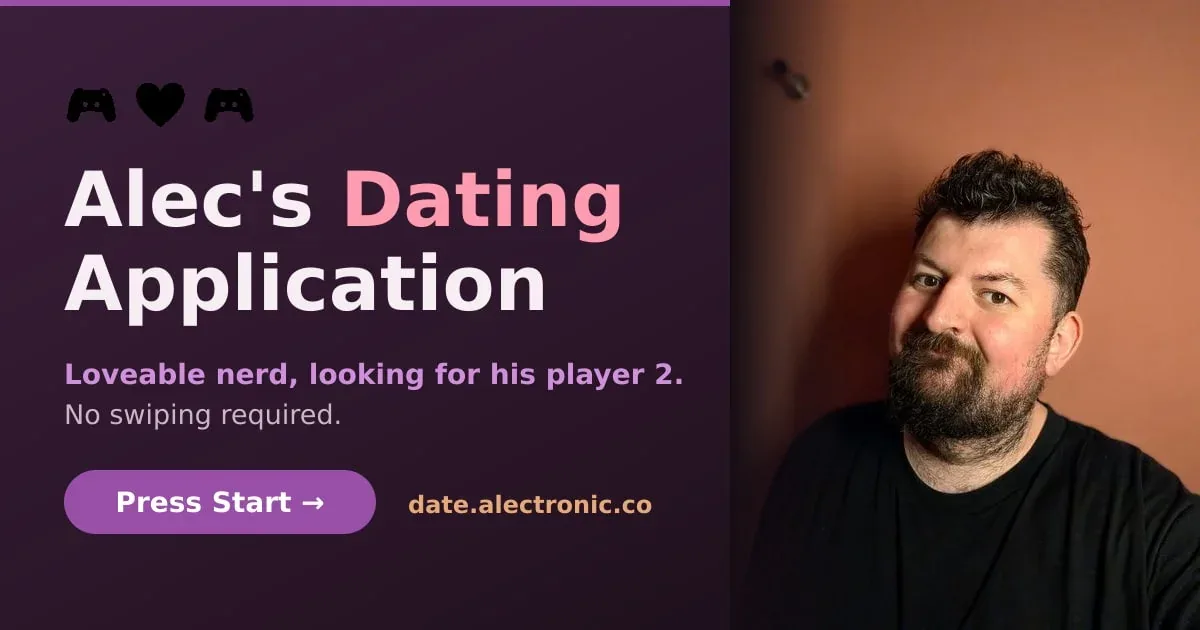
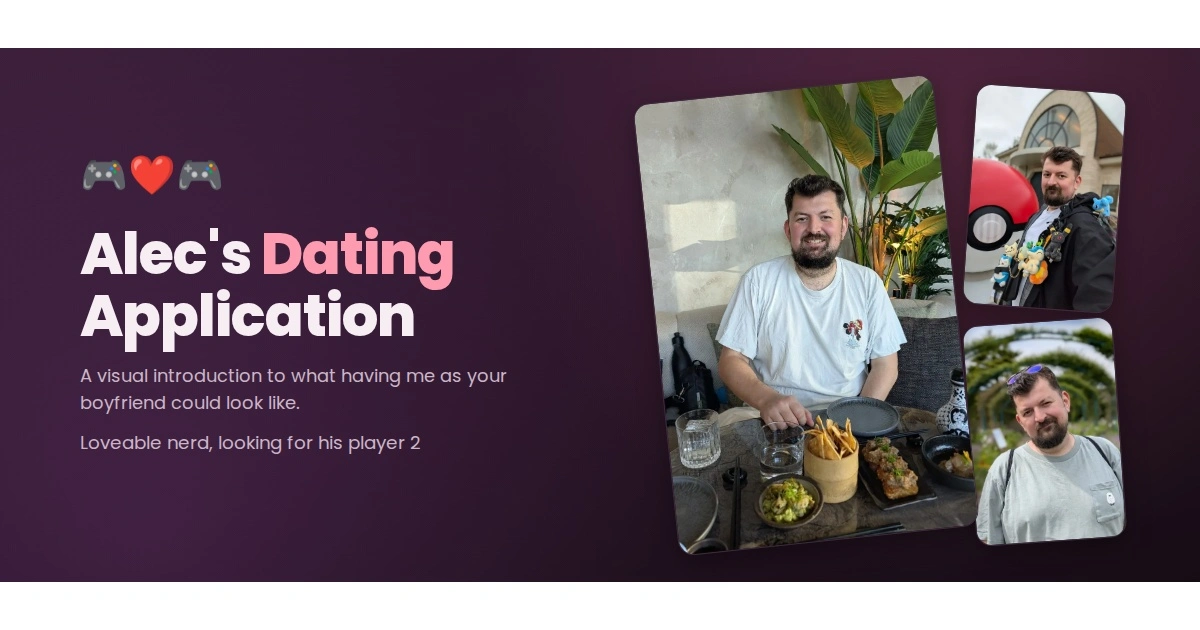
poster: adjust hero emoji font styling and tagline fallback

diff --git a/poster.html b/poster.html
@@ -94,6 +94,10 @@
     .hero-cta, .hero-scroll {
       display: none !important;
     }
+
+    .hero-emoji {
+      font-family: "Apple Color Emoji", "Segoe UI Emoji", "Noto Color Emoji", "Android Emoji", sans-serif;
+    }
   </style>
 </head>
 <body>
@@ -129,7 +133,7 @@
     document.getElementById('hero-emoji').textContent = hero.emoji;
     document.getElementById('hero-headline').innerHTML = hero.headline;
     document.getElementById('hero-sub').innerHTML = hero.subheading;
-    document.getElementById('hero-tagline').innerHTML = hero.tagline;
+    document.getElementById('hero-tagline').innerHTML = hero.tagline || window.CONTENT.meta.tagline;
 
     // Build the photo collage
     const mediaDiv = document.getElementById('hero-media');
